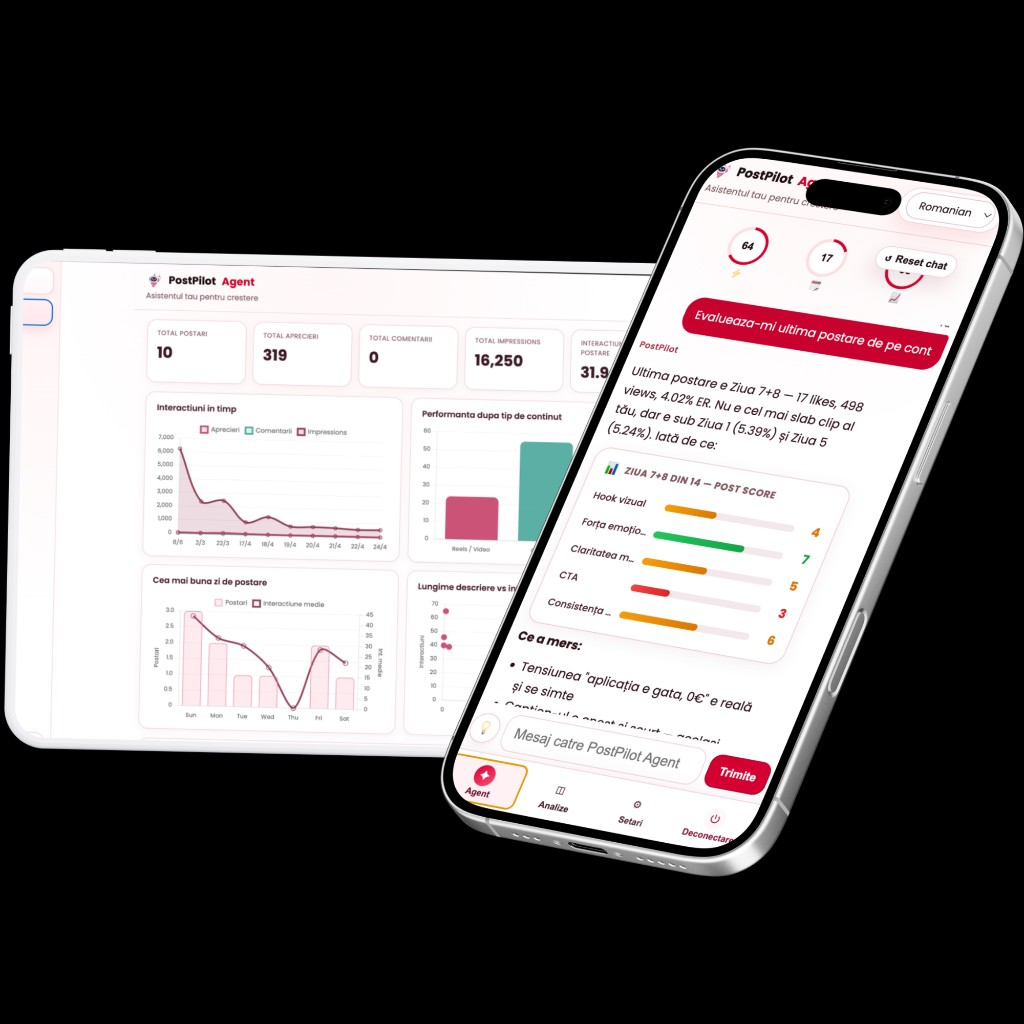
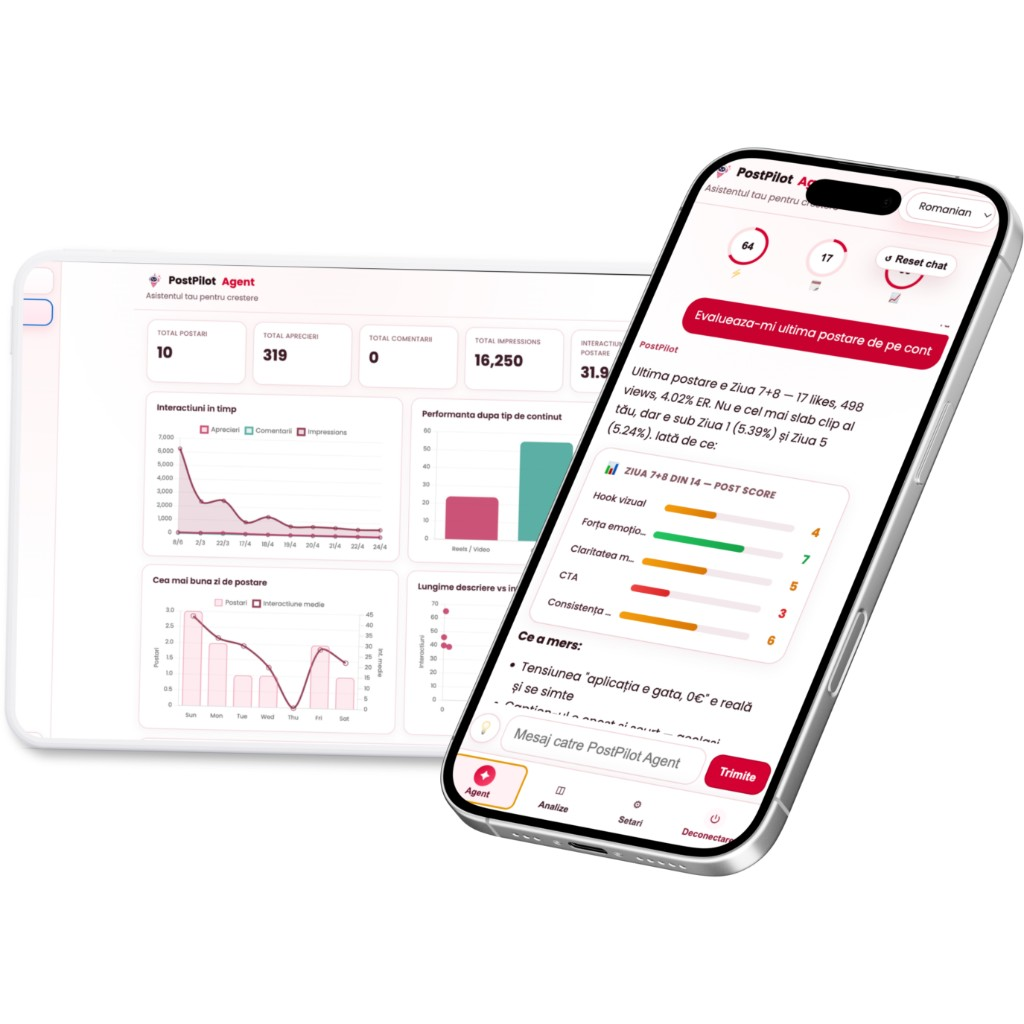
fix: update hero graphic and adjust styling for improved visual consistency and depth

diff --git a/public/styles.css b/public/styles.css
@@ -110,7 +110,7 @@ body {
   position: absolute;
   top: -10%;
   right: -15%;
-  width: 800px;
+  width: 740px;
   height: auto;
   z-index: 0;
   opacity: 0.85;
@@ -121,10 +121,10 @@ body {
 .hero-graphic {
   width: 100%;
   height: auto;
-  transform: rotateY(-15deg) rotateX(10deg) scale(1.1);
+  transform: rotateY(-15deg) rotateX(10deg) scale(1.03);
   mask-image: radial-gradient(circle at center, black 40%, transparent 80%);
   -webkit-mask-image: radial-gradient(circle at center, black 40%, transparent 80%);
-  filter: drop-shadow(0 30px 60px rgba(213, 0, 50, 0.2));
+  filter: drop-shadow(0 30px 60px rgba(213, 0, 50, 0.14));
 }
 
 .hero-copy, .hero-auth-container {
